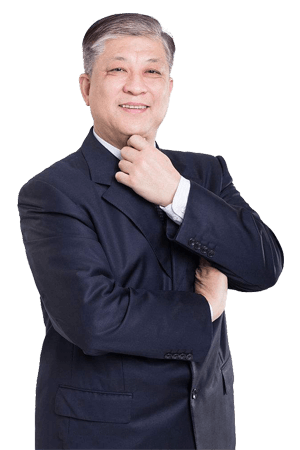
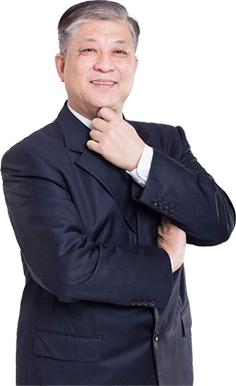
update

diff --git a/assets/style/home/famous.scss b/assets/style/home/famous.scss
@@ -1,7 +1,7 @@
 // 名师大咖秀
 .teachers {
   width: 100%;
-  height: 640px;
+  height: 600px;
   position: relative;
   background-color: rgba(250, 250, 250, 1);
   .align-center {
@@ -12,7 +12,7 @@
   }
   .blueBar {
     width: 100%;
-    height: 200px;
+    height: 150px;
     background-color: #6417a6;
     position: absolute;
     bottom: 0;
@@ -28,8 +28,8 @@
     left: 0;
     right: 0;
     .card {
-      width: 366px;
-      height: 500px;
+      width: 360px;
+      height: 460px;
       position: relative;
       cursor: pointer;
       &:hover .diaphaneity {
@@ -40,24 +40,24 @@
           opacity: 1;
         }
         .abstract p {
-          top: 70px;
+          top: 50px;
           opacity: 1;
         }
 
       }
       img {
-        width: 300px;
-        height: 450px;
+        width: 236px;
+        height: 386px;
         position: absolute;
         bottom: 0;
         left: 50%;
-        margin-left: -150px;
+        margin-left: -118px;
       }
       .diaphaneity {
         // display: none;
         opacity: 0;
-        width: 366px;
-        height: 500px;
+        width: 360px;
+        height: 460px;
         box-shadow: 4px 0px 18px rgba(73, 28, 156, 0.36);
         border-radius: 6px;
         overflow: hidden;
@@ -66,7 +66,7 @@
         left: 0;
         .octImg {
           width: 100%;
-          height: 280px;
+          height: 290px;
         }
         .abstract {
           width: 100%;
@@ -76,7 +76,7 @@
           transition: all 450ms;
           h4 {
             font-size: 20px;
-            line-height: 70px;
+            line-height: 50px;
             padding: 0 32px;
             opacity: .6;
             position: absolute;
@@ -90,13 +90,14 @@
             left: 0;
             opacity: .6;
             transition: all 400ms;
+            height: 100px;
             font-size: 14px;
             line-height: 24px;
             padding: 0 32px;
             overflow: hidden;
             text-overflow: ellipsis;
             display: -webkit-box;
-            -webkit-line-clamp: 5;
+            -webkit-line-clamp: 4;
             -webkit-box-orient: vertical;
 
           }

diff --git a/components/common/Header.vue b/components/common/Header.vue
@@ -306,20 +306,20 @@ export default {
     },
     // 获取验证码
     async handleGetCode() {
-      if(!this.captchaDisable){
+      if(!this.bindTelData.captchaDisable){
         return new Promise((resolve, reject) => {
         auth.smsCodes(this.registerData).then(response => {
           this.$message({
-            type: response.status === "0" ? "success" : "error",
+            type: response.status === 0 ? "success" : "error",
             message: response.msg
           });
-          this.captchaDisable = true;
+          this.bindTelData.captchaDisable = true;
           this.bindTelData.getCode = this.bindTelData.seconds + "秒后重新发送";
           let interval = setInterval(() => {
             if (this.bindTelData.seconds <= 0) {
               this.bindTelData.getCode = "获取验证码";
               this.bindTelData.seconds = 60;
-              this.captchaDisable = false;
+              this.bindTelData.captchaDisable = false;
               clearInterval(interval);
             } else {
               this.bindTelData.getCode =
@@ -335,9 +335,14 @@ export default {
       return new Promise((resolve, reject) => {
         auth.verifyPhone(this.registerData).then(response => {
           this.$message({
-            type: response.status === "0" ? "success" : "error",
+            type: response.status === 0 ? "success" : "error",
             message: response.msg
           });
+          if(response.status != "0"){
+            this.bindTelData.captchaDisable=true;
+          }else{
+            this.bindTelData.captchaDisable=false;
+          }
         });
       });
     },
@@ -476,10 +481,12 @@ export default {
       this.registerData.passwords="";
       this.registerData.types=1;
       this.registerData.codes="";
-      this.registerData.checked=[];
+      this.registerData.checked=[false];
       this.registerData.companyCodes="";
     },
-    handleClick(tab, event) {},
+    handleClick(tab, event) {
+      this.emptyForm();
+    },
     wechatLogined() {
       //微信登录
       this.lrFrame = false;

diff --git a/components/common/Card.vue b/components/common/Card.vue
@@ -430,7 +430,7 @@
     position: absolute;
     top: -13px;
     left: -10px;
-    z-index: 1000;
+    z-index: 1;
   }
 }
 .mask-style {
@@ -746,7 +746,7 @@
     height: 106px;
     background: rgba(255, 255, 255, 1);
     border-radius: 6px;
-    box-shadow: 4px 0px 18px rgba(73, 28, 156, 0.36);
+    box-shadow: 0px 0px 12px rgba(198, 194, 210, .28);
     margin-bottom: 20px;
     cursor: pointer;
     &:hover {
@@ -801,7 +801,6 @@
   flex-wrap: wrap;
   float: left;
   .card-list {
-
     .itemBoxs {
       cursor: pointer;
       width: 472px;
@@ -812,7 +811,7 @@
       flex-direction: column;
       align-items: center; // border:1px #999 solid;
       border-radius: 6px;
-      box-shadow: 4px 0px 18px rgba(73, 28, 156, 0.36);
+      box-shadow: 0px 0px 12px rgba(198, 194, 210, .28);
       &:hover {
         box-shadow: 0 6px 18px 0 rgba(73, 28, 156, 0.36);
         transition: all 300ms;
@@ -849,16 +848,18 @@
       }
       .item {
         font-size: 14px;
-        font-family: MicrosoftYaHei;
-        color: rgba(34, 34, 34, 1);
+        color: #222;;
         line-height: 30px;
-        padding: 20px;
+        padding: 20px 15px 0;
         text-indent: 30px;
+        overflow: hidden;
+        text-overflow: ellipsis;
+        display: -webkit-box;
+        -webkit-line-clamp: 4;
+        -webkit-box-orient: vertical;
       }
       .line-wrap {
         height: 40px;
-        // width: 300px;
-        // border: 1px red solid;
       }
       .line-center {
         line-height: 40px;
